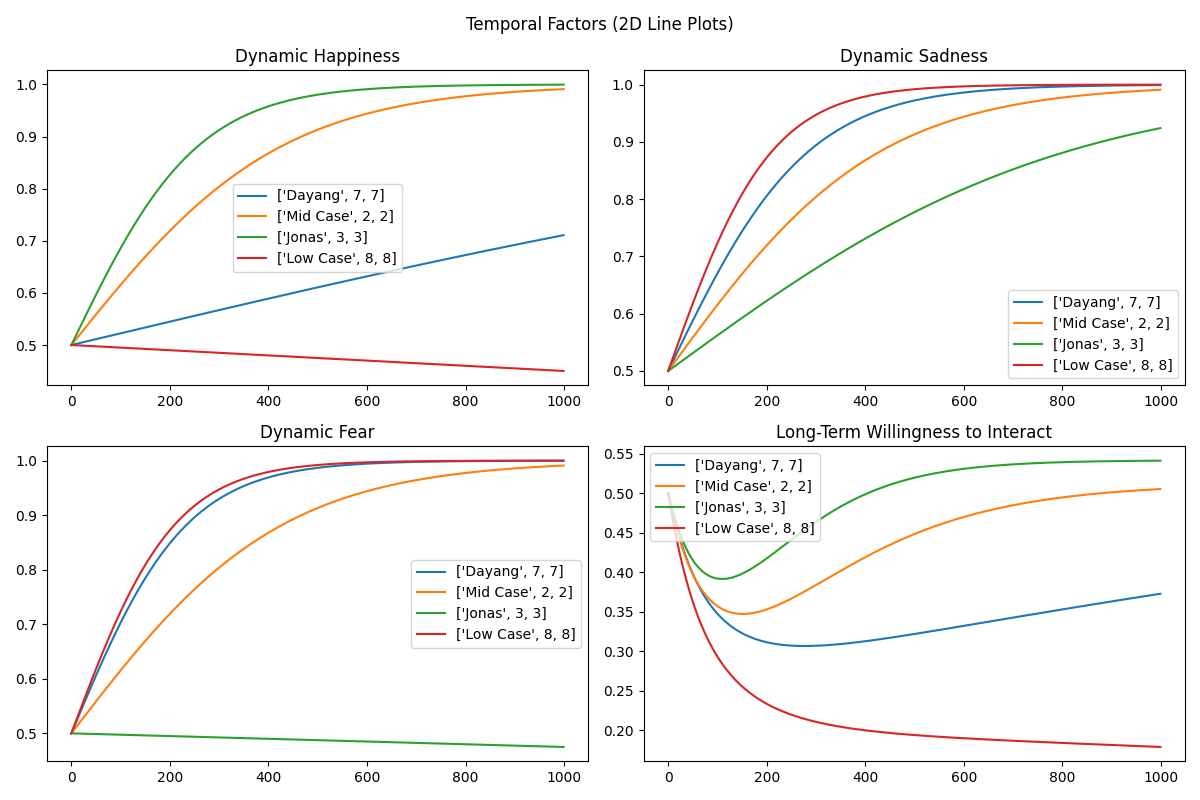
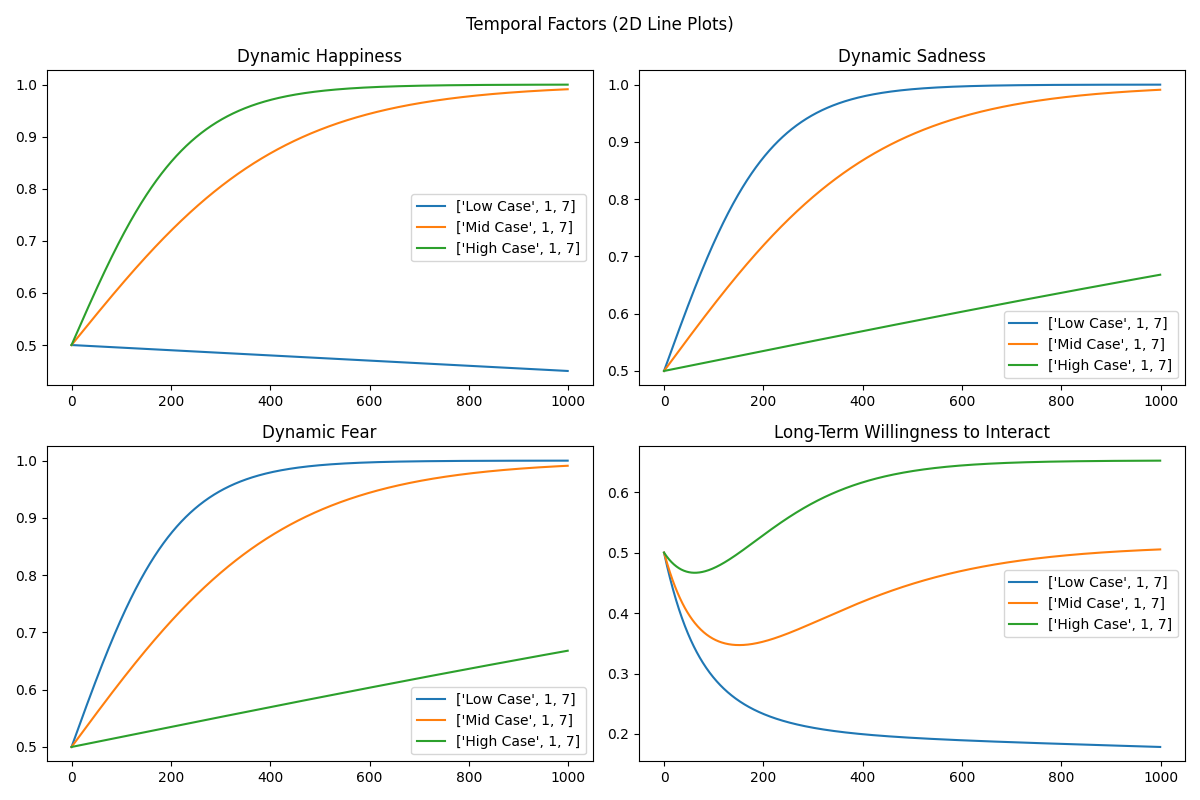
Checkpoint before adjusting register

diff --git a/main.py b/main.py
@@ -35,6 +35,9 @@ app.mount("/static", StaticFiles(directory=STATIC_DIR), name="static")
 tv_positions = []
 agents_list = []
 
+GNumStep = 100000
+
+
 
 # Database model for Agent
 class Agent(Base):
@@ -175,8 +178,8 @@ def run_ssic_model(agent_array):
     # Time and model parameters
     maxLimY = 1.2
     minLimX = 0
-    numStep = 1000
-    numStepChange = 1000
+    numStep = GNumStep
+    numStepChange = GNumStep
     dt = 0.1
     k = 12
     
@@ -414,7 +417,7 @@ async def simulate(request: Request, db: Session = Depends(get_db)):
             #Get Agent SSIC Model Details
             simulation_agents_detail.append([
                 agent.Ha, agent.Sd, agent.Fe, agent.Ex, agent.Op,
-                agent.Nu, agent.Eh, Nc, Ni
+                agent.Nu, agent.Eh, Nc, Ni,
             ])
             
             #Get Agent Locations for Cluster
@@ -475,7 +478,7 @@ async def simulate(request: Request, db: Session = Depends(get_db)):
        
     
      
-    #Runs Each Cluter Differently
+    #Runs Each Cluster Differently
     for tv, cluster in clusterAgent.items():
         clusterName = tv+1
         agent_array=[]
@@ -503,13 +506,25 @@ async def simulate(request: Request, db: Session = Depends(get_db)):
         
         print("----------------Interest Similarities-----------------")
         cluster_interest.append(agent_similarity(agent_interest))
+        print(cluster_interest)
         
         #-------------------------- Cultural Similarities -----------------------------------------
         
         print("----------------Cultural Similarities-----------------")
         cluster_culture.append(agent_similarity(agent_culture))
+        print(cluster_culture)
         
         #-------------------------- SSIC MODEL -----------------------------------------
+        
+        #adjust the agent_array by tweaking the Ni and Nc Values
+        for index, agent in enumerate(agent_array):
+            agent[7] = cluster_culture[0][index]
+            agent[8] = cluster_interest[0][index]
+            
+        #------------------------- Print out final Agent Array ------------------------
+        print("#------------------------- Print out final Agent Array ------------------------#")
+        print(agent_array)
+        
         # Run the SSIC model
         agent_array = np.array(agent_array)
         Pa, Si, Ri, Dh, Ds, Df, Li, Psi = run_ssic_model(agent_array)
@@ -532,7 +547,7 @@ async def simulate(request: Request, db: Session = Depends(get_db)):
         #Temporal Graphs
         fig = plt.figure(figsize=(12, 8))
         fig.suptitle('Temporal Factors (3D Surface Plots)')
-        time = np.arange(1000)
+        time = np.arange(GNumStep)
         agents = np.arange(len(agent_name))
         T, A = np.meshgrid(time, agents)
 
@@ -572,7 +587,7 @@ async def simulate(request: Request, db: Session = Depends(get_db)):
         
         fig = plt.figure(figsize=(12, 8))
         fig.suptitle('Instantaneous Factors (3D Surface Plots)')
-        time = np.arange(1000)
+        time = np.arange(GNumStep)
         agents = np.arange(len(agent_name))
         T, A = np.meshgrid(time, agents)
 
